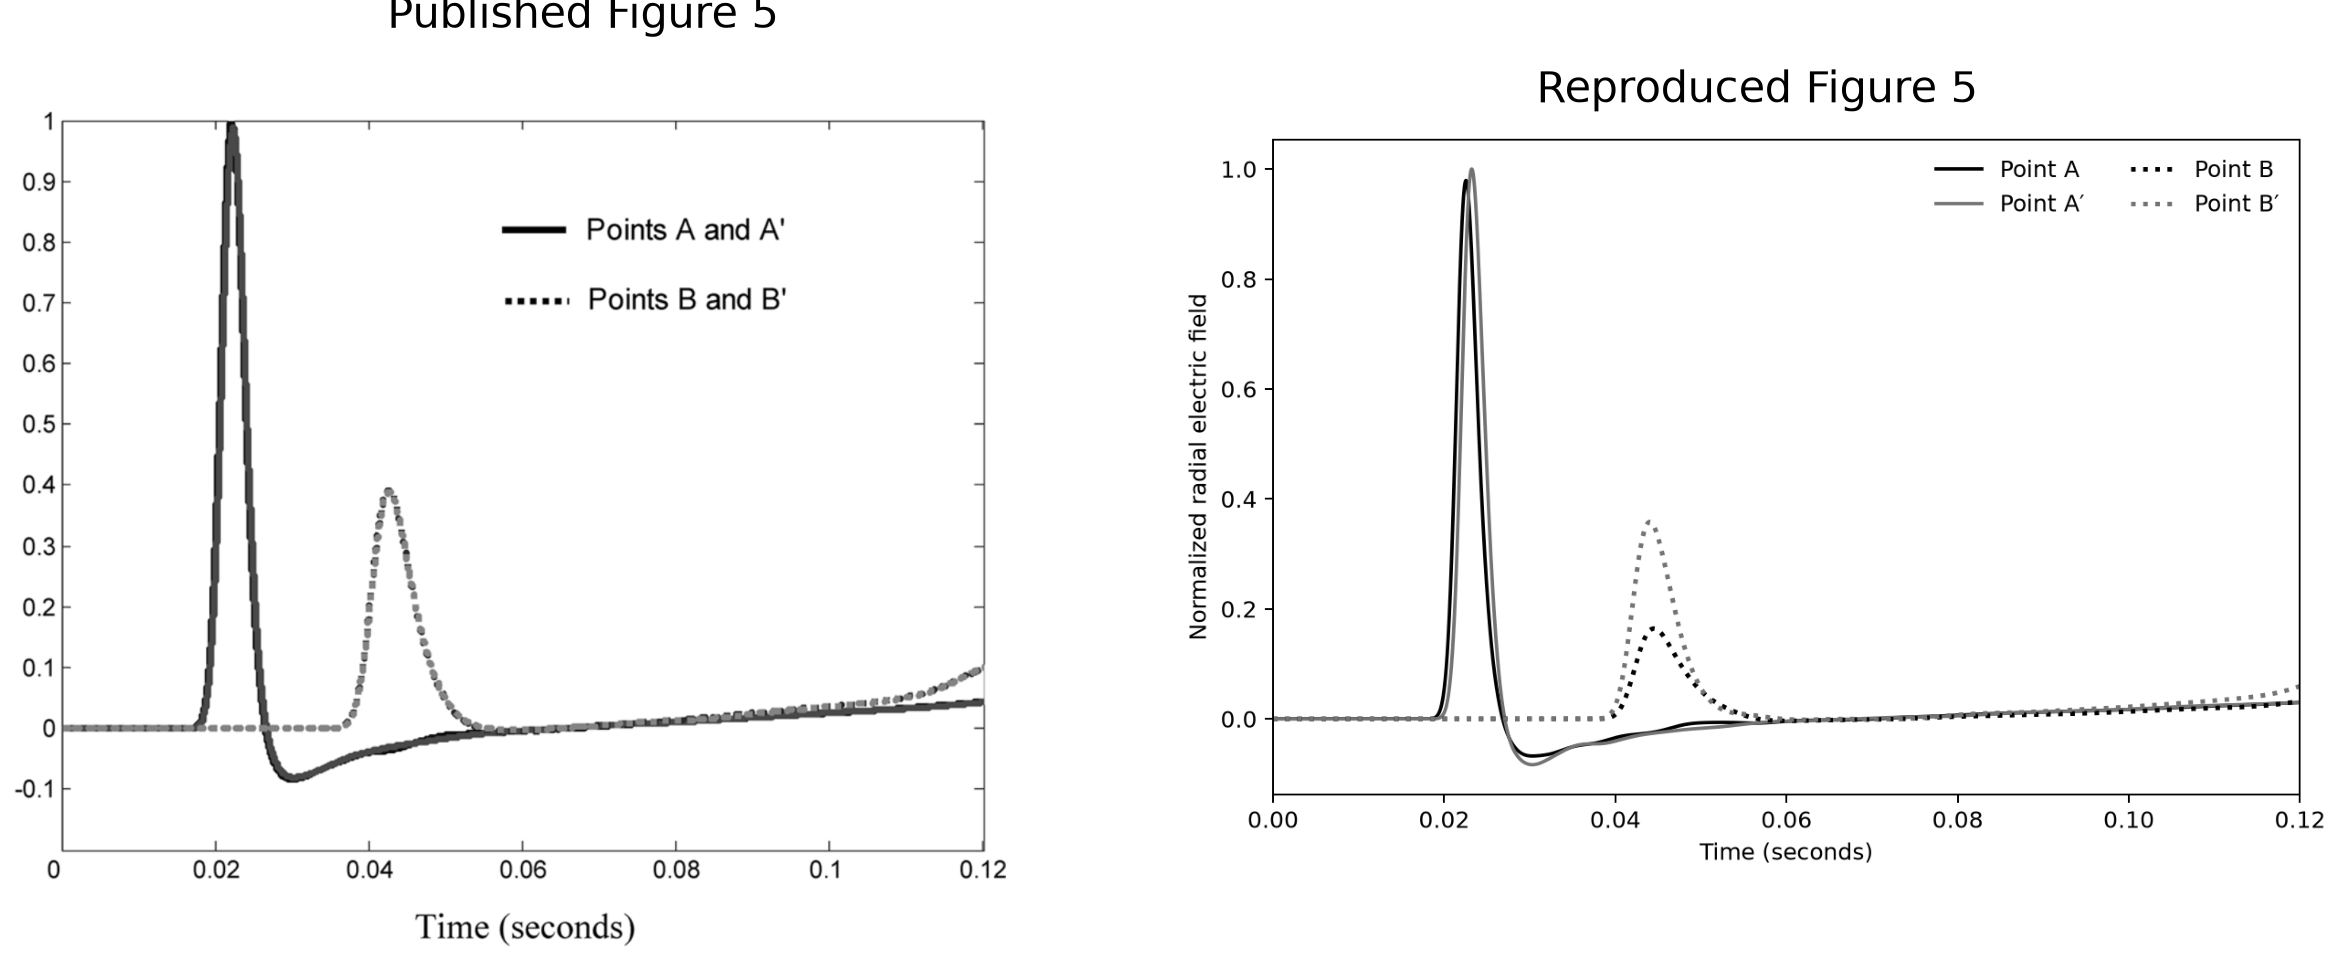
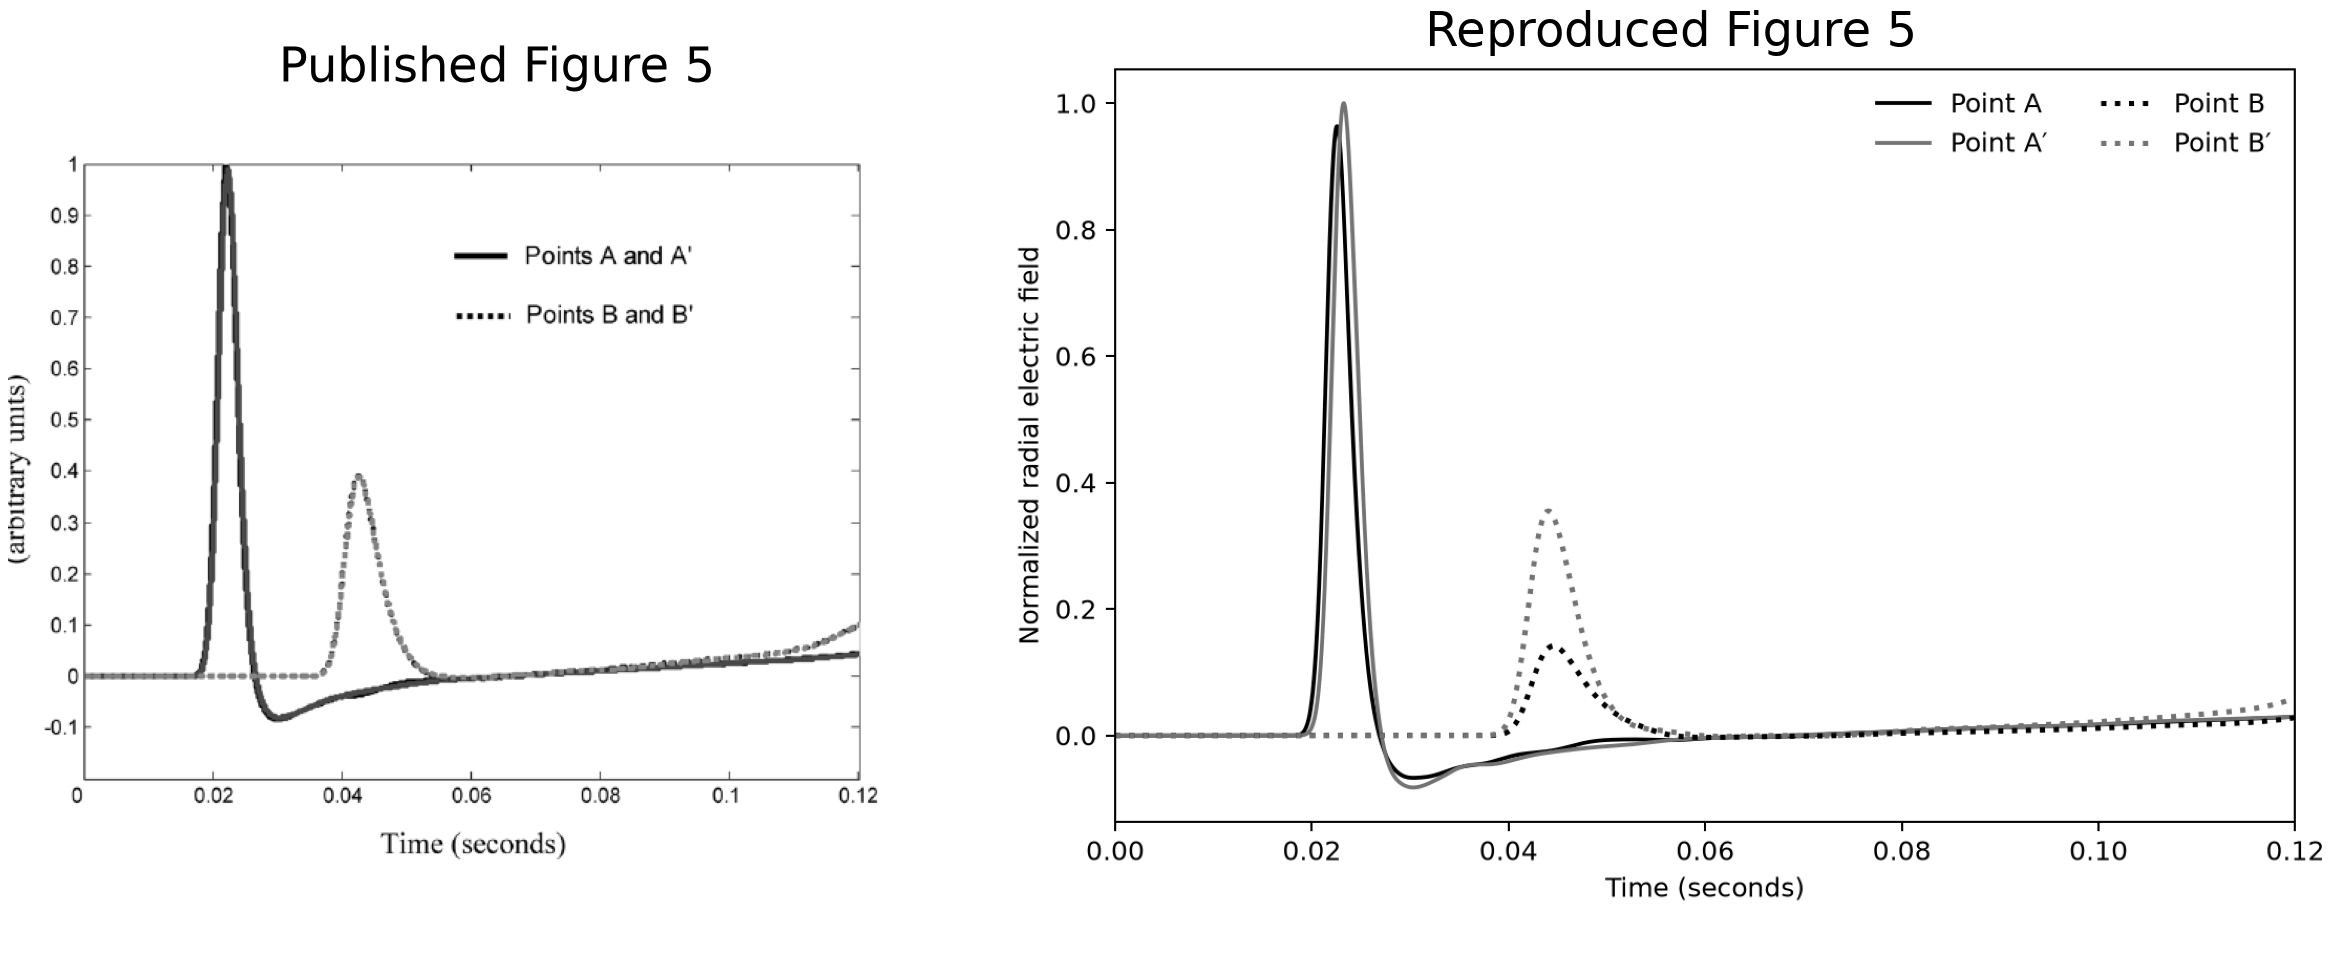
docs(verification): finalize polar Figure 5 rerun
Replace the Figure 5 production result with the paper-resolution polar, one-step mesh-quality, exact-ETOPO5 CUDA float64 run. Update the published comparison image, Pass/Fail table, subdivision convergence, material diagnosis, and reproduction command.\n\nThe final run remains a morphological pass and quantitative fail: normalized B/B-prime peaks are 0.14159/0.35471 versus approximately 0.39/0.39. The conservative shallow-ocean control disproves shallow receiver bathymetry as the sole dominant cause.\n\nTest: 110 passed, 2 skipped.

diff --git a/docs/verification/simpson-taflove-2006.md b/docs/verification/simpson-taflove-2006.md
@@ -14,14 +14,16 @@ with `float64` fields.
 Figure 5 reproduces the published arrival ordering, timing, overshoot, and
 slow-tail morphology, but not all four relative amplitudes. A corrected
 geographic locator separates the previously collapsed B/B′ observations. The
-level-7 ETOPO5 run then gives normalized far peaks of 0.16425/0.35813 instead
-of approximately 0.39/0.39. CUDA `float64` isolation runs identify binary
-5-km radial sampling of shallow bathymetry as the dominant cause: a fixed-depth
-ocean restores both far peaks and east/west symmetry, while ionosphere changes
-do not restore the suppressed B path. Figure 6 consequently has east/west mean
-absolute errors of 2.064/0.277 dB/Mm and maximum absolute errors of
-5.026/1.650 dB/Mm. Both paths fail the paper's pointwise ±0.5 dB/Mm statement
-over 50–500 Hz.
+final level-7 polar, mesh-smoothed ETOPO5 run gives normalized far peaks of
+0.14159/0.35471 instead of approximately 0.39/0.39. CUDA `float64` isolation
+runs show that a fixed-depth surface restores both far peaks and east/west
+symmetry, but forcing every shallow ocean column to contain a 5-km seawater
+cell has negligible effect. The mismatch is therefore associated with the
+complete relief/lithosphere voxelization and unavailable paper grid
+coordinates, not shallow receiver bathymetry alone. The previously finalized
+Figure 6 run has east/west mean absolute errors of 2.064/0.277 dB/Mm and
+maximum absolute errors of 5.026/1.650 dB/Mm. Both paths fail the paper's
+pointwise ±0.5 dB/Mm statement over 50–500 Hz.
 
 Figure 7 also retains only the direction of the claimed sensitivity after its
 transmitter is corrected from the opposite hemisphere to Clam Lake. Its
@@ -73,11 +75,13 @@ while the rendered curve retains the approach to the zero-crossing spikes.
 
 ## Numerical model
 
-### Figures 5 and 6
+### Figure 5
 
 | Item | Implemented value |
 |---|---:|
 | Surface grid | subdivision 7, 163,842 geodesic dual cells |
+| Orientation | polar; pentagonal cell centers at both poles |
+| Mesh quality | one projected spherical edge-quality step |
 | Radial domain | −100 to +100 km |
 | Radial cells | 40 at 5 km |
 | Time step | 3.0 μs |
@@ -88,12 +92,16 @@ while the rendered curve retains the approach to the zero-crossing spikes.
 | Surface data | NOAA-NGDC ETOPO5, bilinear sampling |
 | Ionosphere | 70 km reference height, 3.33 km scale height |
 | Backend | compiled PyTorch, CUDA, float64 |
-| Production revision | `2ffebdf` |
-| Wall time | 1,132.0 s |
+| Production revision | `25a9441` |
+| Wall time | 905.4 s |
 
 The source is barycentrically distributed in the horizontal plane and linearly
 staggered between the 0 and 5 km `Er` planes, preserving its exact 2.5 km
 centroid and total current.
+
+This configuration is authoritative for the current Figure 5 result. Figure 6
+was not rerun during this focused campaign; its section retains the previously
+reported corrected-location native-grid trace and verdict.
 
 ### Figure 7
 
@@ -142,21 +150,21 @@ the reference/anomaly difference but remains a reproducibility limitation.
 
 All four receiver records are plotted individually with one common
 normalization. The corrected ETOPO5 run gives A/A′ peak times of
-22.539/23.217 ms and B/B′ peak times of 44.505/44.025 ms. The calculated
+22.548/23.235 ms and B/B′ peak times of 44.562/44.043 ms. The calculated
 waveforms preserve the published arrival ordering, negative main pulse,
 opposite-sign overshoot, and subsequent slow tail. Their amplitudes, however,
-are path dependent: the normalized B/B′ peaks are 0.16425/0.35813, versus
+are path dependent: the normalized B/B′ peaks are 0.14159/0.35471, versus
 approximately 0.39 for both published far records by visual reading.
 
 | Figure 5 criterion | Published behavior | Reproduction | Result |
 |---|---|---|---:|
-| Arrival ordering | Quarter-antipode response precedes half-antipode response | A/A′ at 22.539/23.217 ms; B/B′ at 44.505/44.025 ms | **PASS** |
+| Arrival ordering | Quarter-antipode response precedes half-antipode response | A/A′ at 22.548/23.235 ms; B/B′ at 44.562/44.043 ms | **PASS** |
 | Main-pulse timing | Peaks occur at the corresponding locations in the published panel | All four peaks visually align with the published traces | **PASS** |
 | Waveform morphology | Negative main pulse, opposite-sign overshoot, and slow tail | All three features are present | **PASS** |
-| A/A′ path similarity | Near records are similar but not identical | Relative RMS difference is 37.3% | **FAIL** |
-| B/B′ path similarity | Far records are similar but not identical | Relative RMS difference is 105.0% | **FAIL** |
-| Far peak magnitude | Both far peaks are approximately 0.39 | B/B′ are 0.16425/0.35813 | **FAIL** |
-| Far slow-tail magnitude at 0.12 s | Both far tails are approximately 0.10 | B/B′ are 0.03252/0.05968 | **FAIL** |
+| A/A′ path similarity | Near records are similar but not identical | Relative RMS difference is 37.6% | **FAIL** |
+| B/B′ path similarity | Far records are similar but not identical | Relative RMS difference is 134.5% | **FAIL** |
+| Far peak magnitude | Both far peaks are approximately 0.39 | B/B′ are 0.14159/0.35471 | **FAIL** |
+| Far slow-tail magnitude at 0.12 s | Both far tails are approximately 0.10 | B/B′ are 0.02820/0.05904 | **FAIL** |
 | Overall qualitative morphology | Ordering and characteristic waveform shape | Required qualitative features are present | **PASS** |
 | Exact plot reproduction | Timing, relative amplitude, and path similarity agree | Timing agrees; amplitude and symmetry do not | **FAIL** |
 
@@ -209,19 +217,23 @@ Hermance-derived cellwise conductivity used by the paper remains unavailable.
 
 The production-resolution comparison confirms the same result:
 
-| Level-7 material | A / A′ peak | B / B′ peak | A/A′ / B/B′ relative RMS |
+| Level-7 configuration | A / A′ peak | B / B′ peak | A/A′ / B/B′ relative RMS |
 |---|---:|---:|---:|
-| Fixed-depth Natural Earth | 1.00000 / 0.99476 | 0.33907 / 0.33993 | 0.6% / 0.5% |
-| ETOPO5 relief | 0.97920 / 1.00000 | 0.16425 / 0.35813 | 37.3% / 105.0% |
+| Native fixed-depth diagnostic | 1.00000 / 0.99476 | 0.33907 / 0.33993 | 0.6% / 0.5% |
+| Prior native ETOPO5 | 0.97920 / 1.00000 | 0.16425 / 0.35813 | 37.3% / 105.0% |
+| Final polar optimized ETOPO5 | 0.96355 / 1.00000 | 0.14159 / 0.35471 | 37.6% / 134.5% |
 
 ETOPO5 elevations at the requested source, A, A′, B, and B′ locations are
 −24, −5,014, −3,041, −207, and −4,538 m, respectively. At the
 5-km radial spacing, the first tangential material sample below sea level is
 at −2.5 km. It is therefore rock beneath the shallow 207-m B ocean but
-water beneath the deep B′ ocean. Replacing only the depth field by a uniform
-5-km ocean restores B/B′ to 0.38240/0.38540 at subdivision 5. The dominant
-error is thus binary radial point sampling of bathymetry, especially shallow
-water, rather than the coastline classifier or propagation update.
+water beneath the deep B′ ocean. This initially suggested that shallow-water
+point sampling was dominant. The later conservative test changed 4,258 edge
+columns to preserve a full 5-km surface water cell, however, and left B/B′ at
+0.04580/0.40605 instead of 0.04585/0.40613. The fixed-depth control also
+flattened positive land relief and used a different coastline. It therefore
+isolates the complete surface-geometry representation from the propagation
+update, but it cannot attribute the failure to receiver bathymetry alone.
 
 #### Radial coupling is the paper's intentional thin-shell approximation
 
@@ -354,13 +366,13 @@ quality step, 40,000 steps, CUDA `float64`, and point material sampling.
 |---:|---:|---:|---:|---:|---:|
 | 5 | 10,242 | 0.97231 / 1.00000 | 0.04585 / 0.40613 | 0.00964 / 0.06858 | 34.0% / 734.0% |
 | 6 | 40,962 | 0.96277 / 1.00000 | 0.07607 / 0.36672 | 0.01533 / 0.06053 | 36.8% / 347.7% |
+| 7 | 163,842 | 0.96355 / 1.00000 | 0.14159 / 0.35471 | 0.02820 / 0.05904 | 37.6% / 134.5% |
 
-The B peak increases by 65.9% and the far-path RMS mismatch is roughly halved,
-so horizontal resolution is moving the eastern path in the correct direction.
-It is nevertheless still 80.5% below the approximate published 0.39 peak and
-79.3% below B′. The convergence is too slow to predict a pass at subdivision 7,
-but it is monotonic enough to justify one final paper-resolution calculation
-for a measured verdict rather than an extrapolation.
+The B peak grows monotonically as the surface-cell count quadruples, and the
+far-path mismatch falls substantially. At paper resolution, however, B is
+still 63.7% below the approximate published 0.39 peak and 60.1% below B′.
+Horizontal resolution moves the result in the correct direction but does not
+converge quickly enough to reproduce Figure 5 at the published grid size.
 
 #### Conductivity-profile sensitivity
 
@@ -614,6 +626,13 @@ production results were accepted:
    corrected the absolute field while retaining the line direction. The final
    source is distributed over the three oriented edges of the containing face
    and adjoint-linearly staggered across the two radial source planes.
+6. The original mesh orientation put hexagonal cells at the geographic poles,
+   contrary to the paper. A rigid default rotation now aligns degree-five cell
+   centers with both poles without changing topology or intrinsic metrics.
+7. The paper's exact Mesquite coordinates are unavailable. An opt-in projected
+   spherical edge-quality step reduces edge, triangle-area, dual-area, and
+   adjacent-area variation while fixing all 12 pentagonal anchors. Its
+   objective is independent of ETOPO5 and receiver values.
 
 Coarse source-deposition and resolution diagnostics performed before the
 geographic correction are retained in git history as implementation tests, but
@@ -648,29 +667,33 @@ tuned away.
 
 ## Reproduction commands
 
-Figures 5 and 6 use the exact ETOPO5 level-7 trace configuration:
+The final Figure 5 result uses the exact ETOPO5 level-7 trace configuration:
 
 ```bash
 .venv/bin/python -m ionosphere_fdtd.simpson_taflove_2004_cli \
-  --subdivision 7 --mesh-orientation native \
+  --subdivision 7 --mesh-orientation polar \
+  --mesh-optimization-steps 1 --minimum-ocean-depth-km 0 \
   --steps 40000 --material etopo5 \
   --etopo5-path data/ETOPO5.DAT --backend torch --device cuda:1 \
   --dtype float64 --dft-window adaptive \
   --ionosphere-reference-height-km 70 \
-  --ionosphere-scale-height-km 3.33 --torch-compile \
-  --synchronize-every 1024 \
-  --output-dir artifacts/simpson-taflove-2006/figure-5-level-7-float64-cuda
+  --ionosphere-scale-height-km 3.3333333333333335 --torch-compile \
+  --synchronize-every 128 \
+  --output-dir /tmp/fig5-polar-optimized-etopo5-l7
 
 .venv/bin/python -m ionosphere_fdtd.simpson_taflove_2006_cli \
   figures-5-6 \
-  --traces artifacts/simpson-taflove-2006/figure-5-level-7-float64-cuda/simpson-taflove-2004-traces.npz \
-  --output-dir artifacts/simpson-taflove-2006/figures-5-6
+  --traces /tmp/fig5-polar-optimized-etopo5-l7/simpson-taflove-2004-traces.npz \
+  --output-dir /tmp/fig5-polar-optimized-etopo5-l7/figures-5-6
 ```
 
 The fixed-depth isolation changes `--material etopo5` to
-`--material natural-earth` and omits `--etopo5-path`. The subdivision-5
-ionosphere sensitivity cases keep the ETOPO5 material and change only the
-reference or scale height documented in the table above.
+`--material natural-earth` and omits `--etopo5-path`. The conservative
+shallow-ocean diagnostic changes only `--minimum-ocean-depth-km` from 0 to 5. The
+subdivision-5 ionosphere sensitivity cases keep the ETOPO5 material and change
+only the reference or scale height documented in the table above. Figure 6
+retains the earlier configuration and is not included in the current focused
+rerun.
 
 The paired Figure 7 runs were:
 
@@ -708,9 +731,12 @@ The paired Figure 7 runs were:
   to 7,013.6 km² of dual-cell area at level 7; no undocumented conductivity
   retuning is used to force an effective 4,800 km² voxel area.
 - The paper uses an optimized geodesic grid. This project retains its existing
-  recursively subdivided geodesic dual grid, as required. The production result
-  is not tuned by changing topology or orientation. A pre-correction
-  rigid-rotation diagnostic is explicitly excluded from the final metrics.
+  recursively subdivided geodesic dual-grid topology, as required. Its rigid
+  polar orientation places pentagonal cell centers at both geographic poles.
+  One deterministic projected edge-quality step reduces edge and adjacent-cell
+  area variation without using ETOPO5 or receiver values in its objective. The
+  paper does not publish the exact Mesquite objective or final coordinates, so
+  the resulting vertices cannot be assumed identical to the paper's grid.
 - Figure 7 does not define source phase, Gaussian center time, or a formal
   error norm. The simulation begins three Gaussian `1/e` half-widths before the
   envelope center, and its displayed time is referenced to that center.
@@ -729,18 +755,23 @@ The final status is therefore **FAIL**.
 The corrective work did produce reusable, tested capabilities: physically
 scaled horizontal ground-line sources, CUDA-native radial/tangential magnetic
 recording, buried anomalies in the ETOPO5 layered material, protected water
-layers, and a reproducible Figure 5–7 analysis CLI. Precision, time-step
-stability, source moment, radial metric weighting, and ionosphere-profile
+layers, polar pentagon alignment, constrained mesh-quality optimization,
+conservative ocean-column diagnostics, and a reproducible Figure 5–7 analysis
+CLI. Precision, time-step stability, source moment, radial metric weighting,
+and ionosphere-profile
 sensitivity were tested. The geographic locator defect was corrected and all
 paper-scale production traces affected by it were recomputed.
 
-For Figure 5, the strongest identified cause is actionable: binary material
-sampling aliases shallow water layers and changes strongly with surface
-subdivision. Simple arithmetic radial fractions do not solve it; the next
-local edge-support quadrature is also ineffective. A frequency-dependent
-thin-layer surface impedance could improve physical convergence while
-retaining the required geodesic grid, but it would no longer be the paper's
-published bulk-cell algorithm. Figure 6 additionally retains the known
+For Figure 5, the mismatch changes strongly and monotonically with surface
+subdivision, while fixed-depth geometry restores symmetry. Mesh smoothing,
+arithmetic radial fractions, local edge-support quadrature, and conservative
+5-km ocean occupancy are all insufficient. This leaves the complete ETOPO5
+surface/lithosphere voxelization and the unavailable optimized vertex
+coordinates as the strongest identified limitations; shallow bathymetry alone
+is no longer supported as the dominant cause. A frequency-dependent ground
+surface impedance could improve physical convergence while retaining the
+required geodesic grid, but it would no longer be the paper's published
+bulk-cell algorithm. Figure 6 additionally retains the known
 high-frequency spatial-dispersion residual. Figure 7 remains limited by inputs
 that cannot be reconstructed from the paper: optimized cell positions, exact
 three-dimensional lithosphere conductivity, Canadian Shield mask, horizontal
